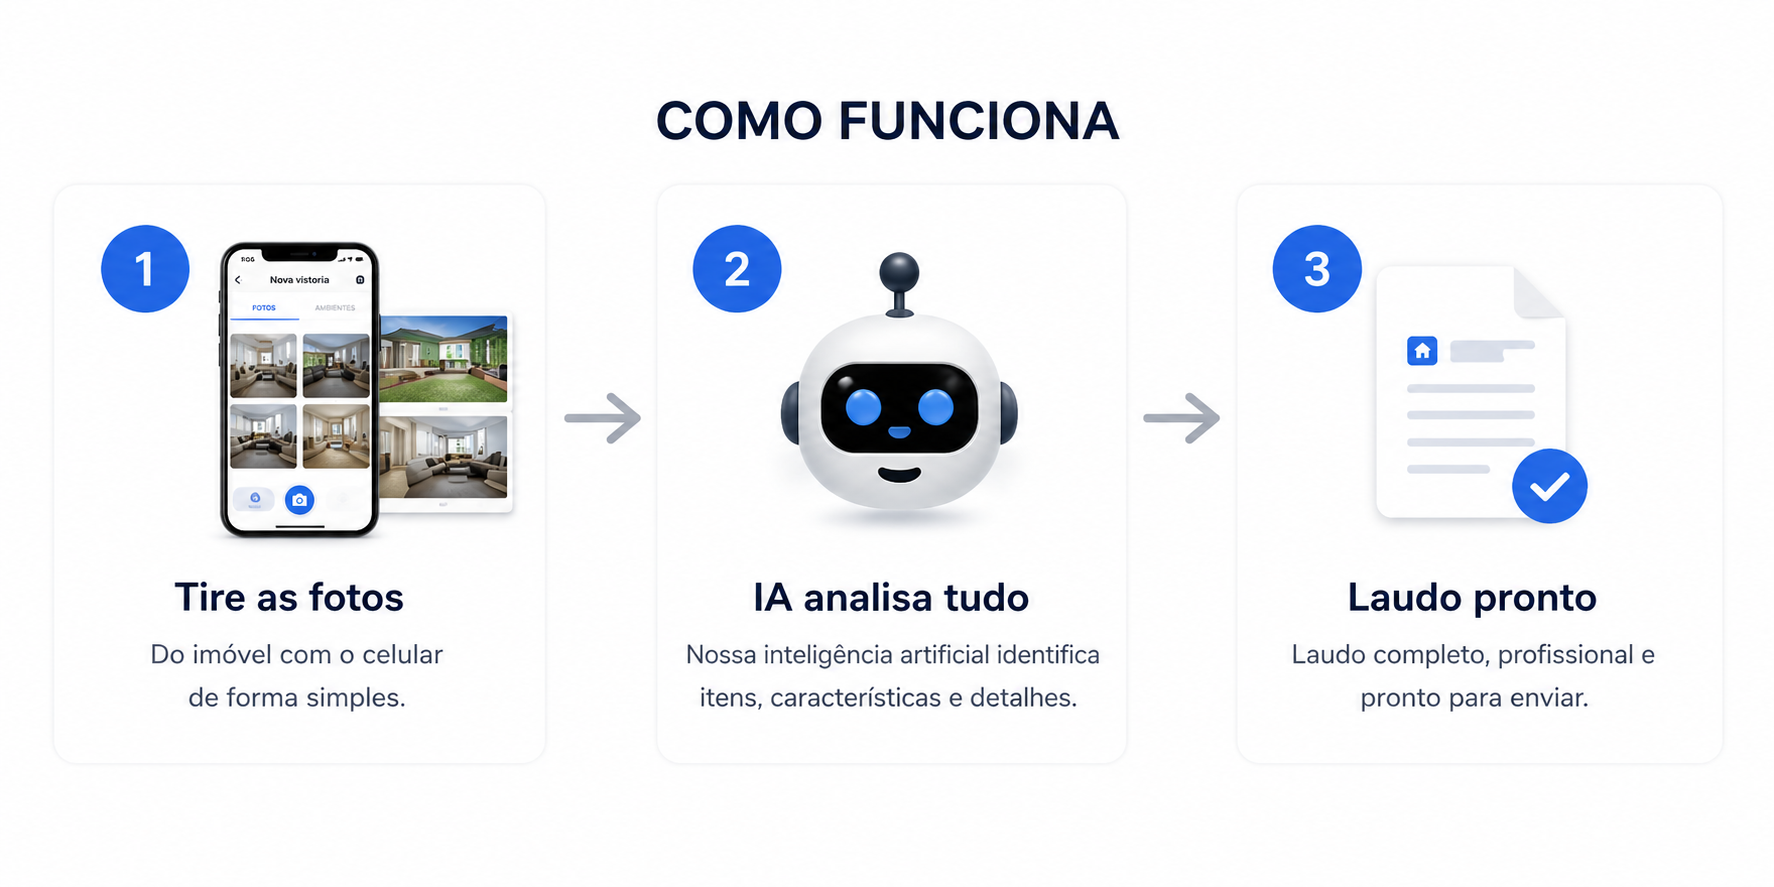
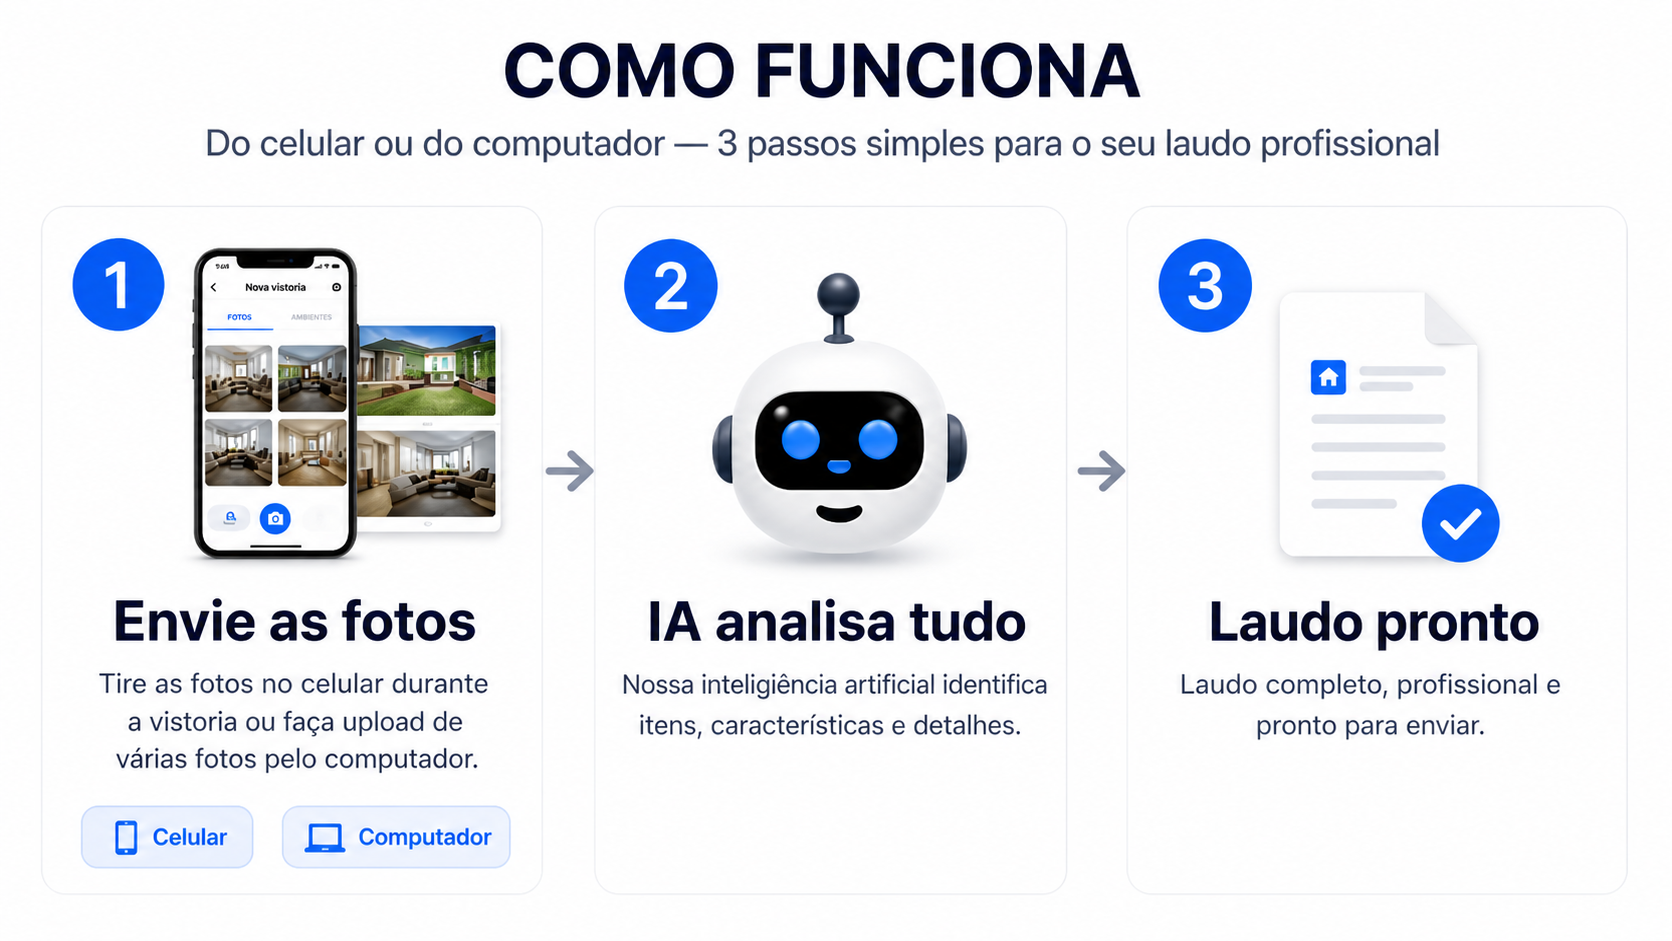
feat(site): atualizar imagem 'Como funciona' com selos de plataforma

diff --git a/static/site/index.html b/static/site/index.html
@@ -259,7 +259,7 @@ footer{background:#0f1e33;padding:40px 5%;display:flex;justify-content:space-bet
 <section class="section" id="como-funciona">
   <div class="section-header">
     <h2>Como funciona</h2>
-    <p>3 passos simples para o seu laudo profissional</p>
+    <p>Do celular ou do computador — 3 passos simples para o seu laudo profissional.</p>
   </div>
   <img src="/static/site/images/como-funciona.png" alt="Como funciona o izyLAUDO" class="como-img">
 </section>
